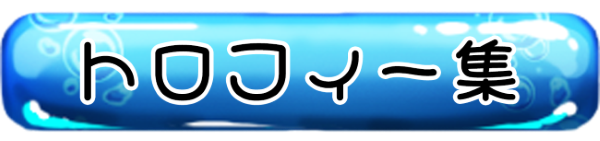
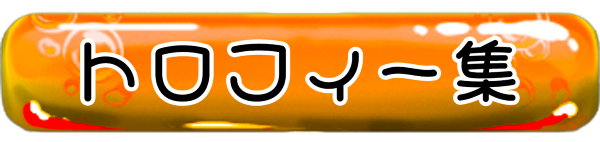
ストレス集とトロフィー集のテキスト実装、メニュー画面の一部ボタンの置き換え、死因ポップアップのアニメーション追加

diff --git a/SceneTrophyCollection.cpp b/SceneTrophyCollection.cpp
@@ -26,6 +26,10 @@ void CSceneTrophyCollection::Initialize()
 
 	page = 1;
 
+	//フォント
+	font.Load(fontAdd, fontName);
+	font.Create(64, fontName);
+
 	LoadTrophyFlg();
 
 	//トロフィーテクスチャ読み込み
@@ -597,6 +601,7 @@ void CSceneTrophyCollection::Update()
 
 			if ((g_pInput->IsMouseKeyPush(MOFMOUSE_LBUTTON) && ButtonGetRect(2).CollisionPoint(mousePosX, mousePosY)))
 			{
+				buttonSelect = 1;
 				page = 2;
 			}
 
@@ -685,6 +690,7 @@ void CSceneTrophyCollection::Update()
 				seaOfJapanScale = scaleMini;
 				aroundTheGlobeScale = scaleMini;
 				zeroMotivationScale = scaleMini;
+				menuButtonScale = scaleMini;
 				if (g_pInput->IsKeyPush(MOFKEY_UP))
 				{
 					buttonSelect = 0;
@@ -759,7 +765,7 @@ void CSceneTrophyCollection::Update()
 				seaOfJapanScale = scaleMini;
 				aroundTheGlobeScale = scaleMini;
 				zeroMotivationScale = scaleMini;
-
+				menuButtonScale = scaleMini;
 				if (g_pInput->IsKeyPush(MOFKEY_UP))
 				{
 					buttonSelect = 0;
@@ -834,6 +840,7 @@ void CSceneTrophyCollection::Update()
 				seaOfJapanScale = scaleController.ScaleControll(seaOfJapanScale, scaleMax, scaleMini, scaleSpeed);
 				aroundTheGlobeScale = scaleMini;
 				zeroMotivationScale = scaleMini;
+				menuButtonScale = scaleMini;
 				if (g_pInput->IsKeyPush(MOFKEY_UP))
 				{
 					buttonSelect = 0;
@@ -908,6 +915,7 @@ void CSceneTrophyCollection::Update()
 				seaOfJapanScale = scaleMini;
 				aroundTheGlobeScale = scaleController.ScaleControll(aroundTheGlobeScale, scaleMax, scaleMini, scaleSpeed);
 				zeroMotivationScale = scaleMini;
+				menuButtonScale = scaleMini;
 				if (g_pInput->IsKeyPush(MOFKEY_UP))
 				{
 					if (amazonRiverFlg)
@@ -981,6 +989,7 @@ void CSceneTrophyCollection::Update()
 				seaOfJapanScale = scaleMini;
 				aroundTheGlobeScale = scaleMini;
 				zeroMotivationScale = scaleController.ScaleControll(zeroMotivationScale, scaleMax, scaleMini, scaleSpeed);
+				menuButtonScale = scaleMini;
 				if (g_pInput->IsKeyPush(MOFKEY_UP))
 				{
 					if (seaOfJapanFlg)
@@ -1049,10 +1058,12 @@ void CSceneTrophyCollection::Update()
 
 			if ((g_pInput->IsMouseKeyPush(MOFMOUSE_LBUTTON) && ButtonGetRect(1).CollisionPoint(mousePosX, mousePosY)))
 			{
+				buttonSelect = 1;
 				page = 1;
 			}
 			if ((g_pInput->IsMouseKeyPush(MOFMOUSE_LBUTTON) && ButtonGetRect(2).CollisionPoint(mousePosX, mousePosY)))
 			{
+				buttonSelect = 1;
 				page = 3;
 			}
 		}
@@ -1181,7 +1192,7 @@ void CSceneTrophyCollection::Update()
 					else
 						buttonSelect = 0;
 				}
-				if (g_pInput->IsMouseKeyPush(MOFMOUSE_LBUTTON) && GetRect(TROPHY_MOUNTFJI).CollisionPoint(mousePosX, mousePosY))
+				if (g_pInput->IsMouseKeyPush(MOFMOUSE_LBUTTON) && GetRect(TROPHY_MOUNTFJI).CollisionPoint(mousePosX, mousePosY) || g_pInput->IsKeyPush(MOFKEY_SPACE))
 				{
 					popUpFlg = true;
 					//ポップアップにトロフィー:富士山級の画像を表示させる
@@ -1242,7 +1253,7 @@ void CSceneTrophyCollection::Update()
 						buttonSelect = 0;
 					
 				}
-				if (g_pInput->IsMouseKeyPush(MOFMOUSE_LBUTTON) && GetRect(TROPHY_OSAKAMARATHON).CollisionPoint(mousePosX, mousePosY))
+				if (g_pInput->IsMouseKeyPush(MOFMOUSE_LBUTTON) && GetRect(TROPHY_OSAKAMARATHON).CollisionPoint(mousePosX, mousePosY) || g_pInput->IsKeyPush(MOFKEY_SPACE))
 				{
 					popUpFlg = true;
 					//ポップアップにトロフィー:大阪マラソンの画像を表示させる
@@ -1300,7 +1311,7 @@ void CSceneTrophyCollection::Update()
 					}
 				}
 
-				if (g_pInput->IsMouseKeyPush(MOFMOUSE_LBUTTON) && GetRect(TROPHY_BIWALAKE).CollisionPoint(mousePosX, mousePosY))
+				if (g_pInput->IsMouseKeyPush(MOFMOUSE_LBUTTON) && GetRect(TROPHY_BIWALAKE).CollisionPoint(mousePosX, mousePosY) || g_pInput->IsKeyPush(MOFKEY_SPACE))
 				{
 					popUpFlg = true;
 					//ポップアップにトロフィー:琵琶湖級の画像を表示させる
@@ -1359,7 +1370,7 @@ void CSceneTrophyCollection::Update()
 					else	
 						buttonSelect = 0;
 				}
-				if (g_pInput->IsMouseKeyPush(MOFMOUSE_LBUTTON) && GetRect(TROPHY_JACKPOD).CollisionPoint(mousePosX, mousePosY))
+				if (g_pInput->IsMouseKeyPush(MOFMOUSE_LBUTTON) && GetRect(TROPHY_JACKPOD).CollisionPoint(mousePosX, mousePosY) || g_pInput->IsKeyPush(MOFKEY_SPACE))
 				{
 					popUpFlg = true;
 					//ポップアップにトロフィー:ジャックポット級の画像を表示させる
@@ -1414,7 +1425,7 @@ void CSceneTrophyCollection::Update()
 							buttonSelect = 0;
 					}
 				}
-				if (g_pInput->IsMouseKeyPush(MOFMOUSE_LBUTTON) && GetRect(TROPHY_TALENTEDDEMON).CollisionPoint(mousePosX, mousePosY))
+				if (g_pInput->IsMouseKeyPush(MOFMOUSE_LBUTTON) && GetRect(TROPHY_TALENTEDDEMON).CollisionPoint(mousePosX, mousePosY) || g_pInput->IsKeyPush(MOFKEY_SPACE))
 				{
 					popUpFlg = true;
 					//ポップアップにトロフィー:才能魔の画像を表示させる
@@ -1425,6 +1436,7 @@ void CSceneTrophyCollection::Update()
 			}
 		if ((g_pInput->IsMouseKeyPush(MOFMOUSE_LBUTTON) && ButtonGetRect(1).CollisionPoint(mousePosX, mousePosY)))
 		{
+			buttonSelect = 1;
 			page = 2;
 		}
 	}
@@ -1502,7 +1514,7 @@ void CSceneTrophyCollection::Render()
 	CGraphicsUtilities::RenderString(leftButtonPosX + leftButtonTexture.GetWidth() + 10, leftAndRightButtonPosY + 5, MOF_XRGB(255, 255, 255), "%d/3", page);
 	leftButtonTexture.Render(leftButtonPosX, leftAndRightButtonPosY);
 	rightButtonTexture.Render(rightButtonPosX, leftAndRightButtonPosY);
-
+	font.RenderString(textPosX, textPosY, MOF_XRGB(255, 255, 255), "トロフィー集");
 	if (popUpFlg)
 	{
 		nowPopUpTrophy->Render();
@@ -1726,7 +1738,7 @@ bool CSceneTrophyCollection::GetTrophy(int i)
 
 void CSceneTrophyCollection::SaveTrophyFlg()
 {
-	FILE* fp = fopen("SaveTrophy.dat", "wb");
+	FILE* fp = fopen("SaveDeta\\SaveTrophy.dat", "wb");
 	if (fp)
 	{
 		fwrite(&riverFlg, sizeof(bool), 1, fp);
@@ -1751,7 +1763,7 @@ void CSceneTrophyCollection::SaveTrophyFlg()
 
 void CSceneTrophyCollection::LoadTrophyFlg()
 {
-	FILE* fp = fopen("SaveTrophy.dat", "rb");
+	FILE* fp = fopen("SaveDeta\\SaveTrophy.dat", "rb");
 	if (fp)
 	{
 		fread(&riverFlg, sizeof(bool), 1, fp);

diff --git a/CauseOfDeathWindow.h b/CauseOfDeathWindow.h
@@ -1,23 +1,31 @@
 #pragma once
 #include "PopUpWindowBase.h"
 #include "Player.h"
+#include "ResourceFont.h"
+
 class CCauseOfDeathWindow : public CPopUpWindowBase
 {
 private:
-	CFont		font;
 	CTexture	popUpTexture;
 	CTexture	deathTextTexture;
 	CTexture	buttonNextTexture;
 	CTexture	caseOfDethTexture;
 	CTexture	newGetTexture;
 
+	float				causeOfDeathScaleSpeed = 0.1f;
+	float				popUpScale = 2.0f;;
 	const int			buttonNextPosX = 1400;
 	const int			buttonNextPosY = 850;
-	float				buttonNextScale = 1.0f;
+	float				buttonNextScale = 2.0f;
+	bool				buttonNextScaleFlg;
 	const int			causeOfDeathTexturePosX = 725;
 	const int			causeOfDeathTexturePosY = 370;
+	float				causeOfDeathTextureScale = 2.0f;
 	const int			deathTextPosX = 830;
 	const int			deathTextPosY = 210;
+	float				deathTextScale = 2.0f;
+
+
 
 public:
 	CCauseOfDeathWindow();

diff --git a/CheckCauseOfDeathWindow.h b/CheckCauseOfDeathWindow.h
@@ -5,7 +5,6 @@
 class CCheckCauseOfDeathWindow : public CPopUpWindowBase
 {
 private:
-	CFont		font;
 	CTexture	popUpTexture;
 	CTexture	buttonBackTexture;
 	CTexture	causeOfDeathTexture;
@@ -14,7 +13,7 @@ private:
 	const int			buttonBackPosY = 100;
 	float				buttonBackScale = 1.0f;
 	const int			causeOfDeathTexturePosX = 725;
-	const int			causeOfDeathTexturePosY = 350;
+	const int			causeOfDeathTexturePosY = 225;
 public:
 	CCheckCauseOfDeathWindow();
 	~CCheckCauseOfDeathWindow();

diff --git a/TrophyWindow.h b/TrophyWindow.h
@@ -3,7 +3,6 @@
 class CTrophyWindow : public CPopUpWindowBase
 {
 private:
-	CFont		font;
 	CTexture	popUpTexture;
 	CTexture	buttonBackTexture;
 	CTexture	trophyTexture;
@@ -12,7 +11,7 @@ private:
 	const int			buttonBackPosY = 100;
 	float				buttonBackScale = 1.0f;
 	const int			trophyTexturePosX = 815;
-	const int			trophyTexturePosY = 350;
+	const int			trophyTexturePosY = 375;
 public:
 	CTrophyWindow();
 	~CTrophyWindow();
